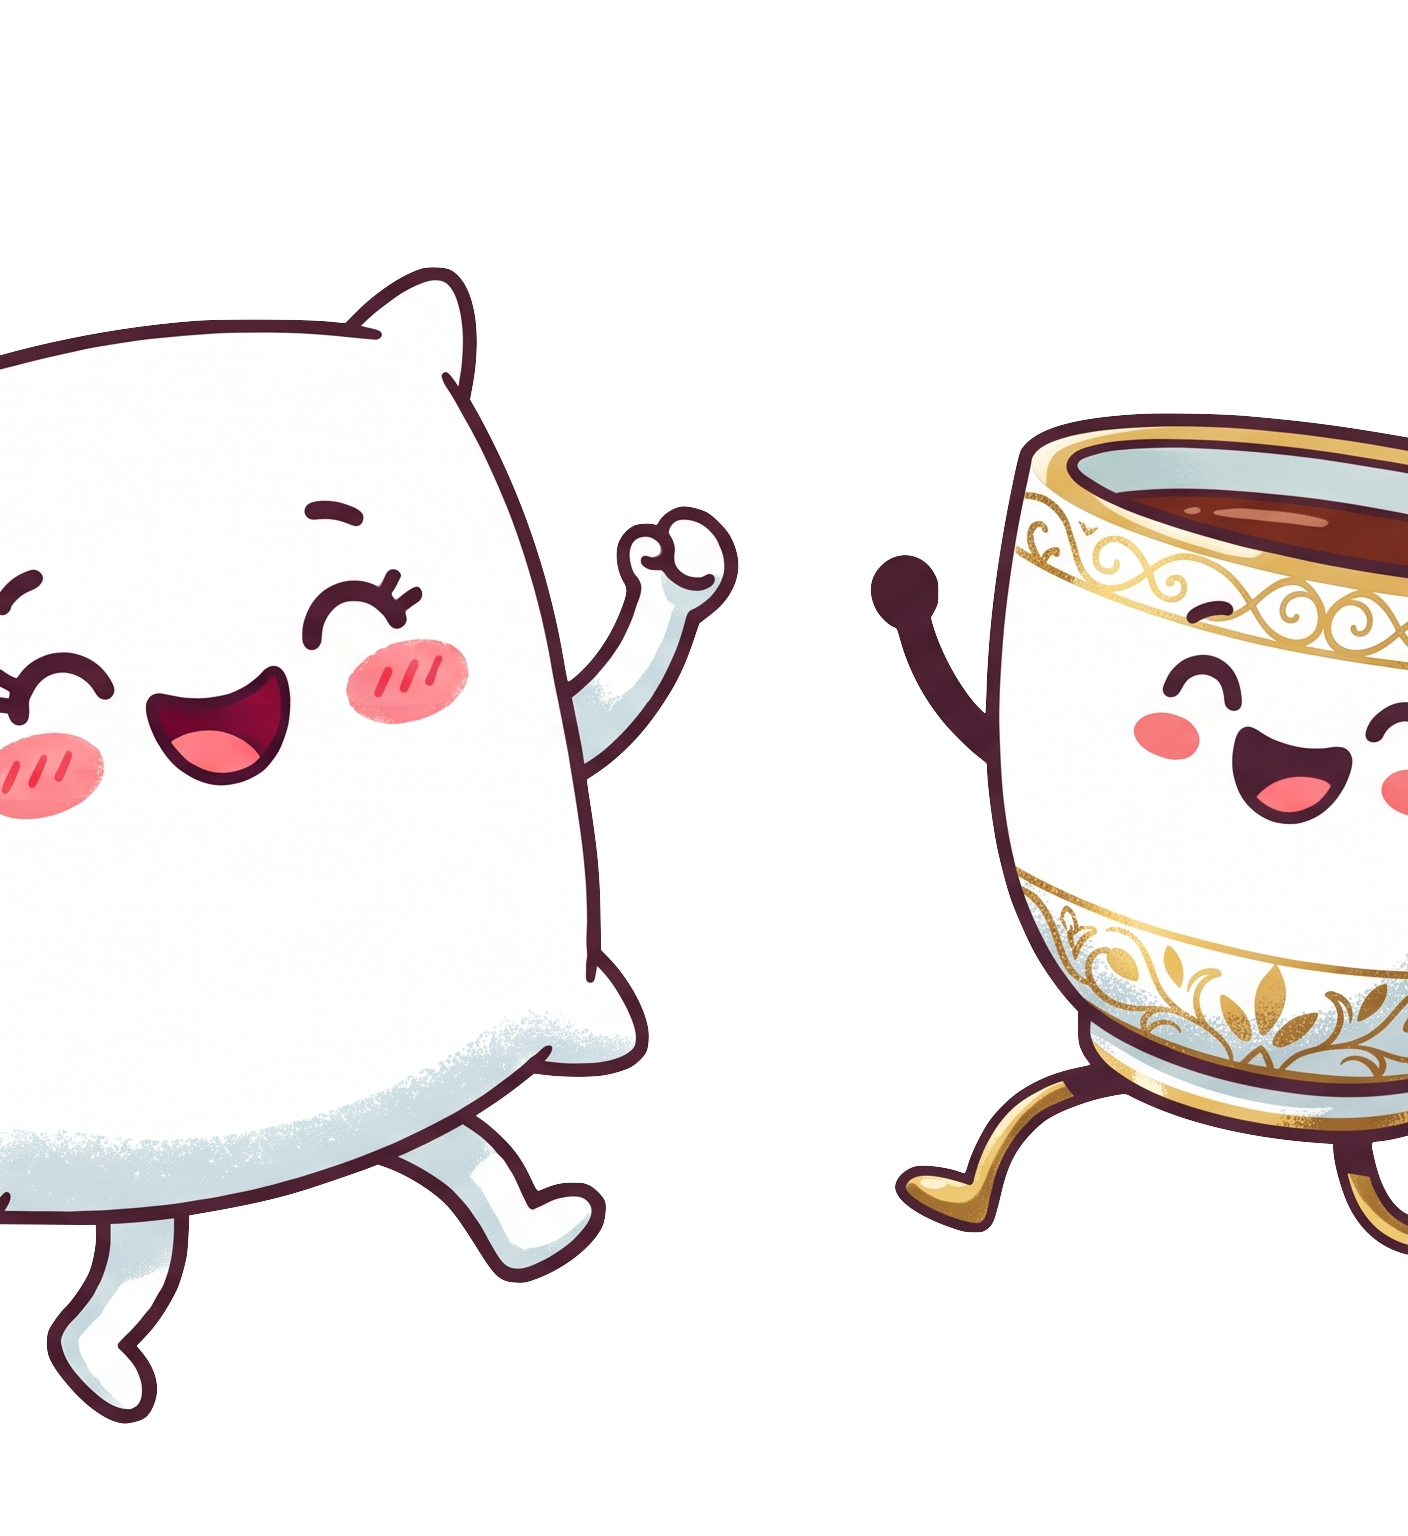
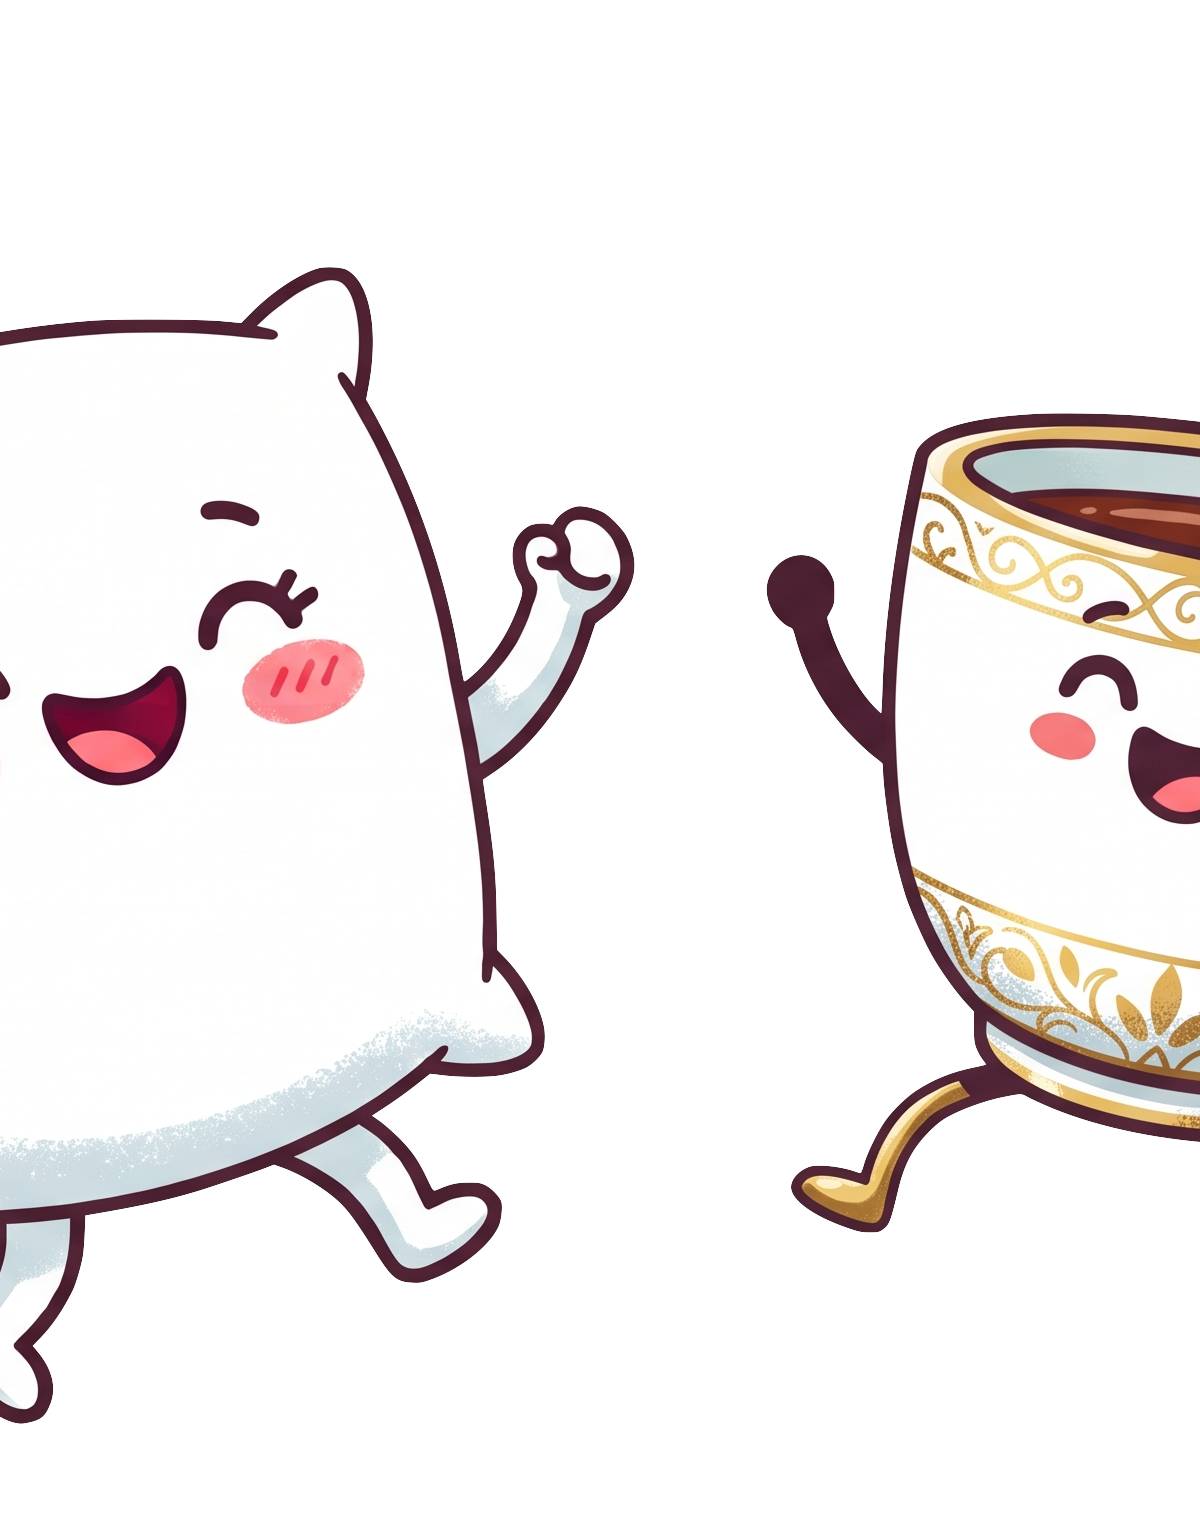
add mychar download, prompt dropdown, chat copy; fix overlay crop and size
- Settings/Onboarding: show mychar download button when custom character exists
- CharacterCreator: prompt pulldown with copy button after image generation; increase composite overlay height to 65%
- ChatOverlay: add copy-all button in header when messages exist
- Overlay images: re-crop to 1200px width to prevent character cutoff

diff --git a/src/components/ChatOverlay.tsx b/src/components/ChatOverlay.tsx
@@ -185,6 +185,22 @@ export function ChatOverlay({ userName, onClose }: Props) {
           <div className="chat-header-row">
             <span className="chat-title">AIに相談する</span>
             <div className="chat-header-actions">
+              {messages.length > 0 && (
+                <button
+                  className="icon-btn"
+                  onClick={e => {
+                    e.stopPropagation()
+                    const text = messages.map(m => `${m.role === 'user' ? 'あなた' : 'AI'}: ${m.text}`).join('\n\n')
+                    navigator.clipboard.writeText(text)
+                  }}
+                  aria-label="全文コピー"
+                >
+                  <svg width="16" height="16" viewBox="0 0 24 24" fill="none" stroke="currentColor" strokeWidth="2" strokeLinecap="round" strokeLinejoin="round">
+                    <rect x="9" y="9" width="13" height="13" rx="2" ry="2"/>
+                    <path d="M5 15H4a2 2 0 0 1-2-2V4a2 2 0 0 1 2-2h9a2 2 0 0 1 2 2v1"/>
+                  </svg>
+                </button>
+              )}
               <button className="icon-btn" onClick={e => { e.stopPropagation(); setShowPersonality(v => !v) }} aria-label="性格・口調設定">
                 <svg width="18" height="18" viewBox="0 0 24 24" fill="none" stroke="currentColor" strokeWidth="2" strokeLinecap="round" strokeLinejoin="round">
                   <circle cx="12" cy="12" r="3"/><path d="M19.4 15a1.65 1.65 0 0 0 .33 1.82l.06.06a2 2 0 0 1-2.83 2.83l-.06-.06a1.65 1.65 0 0 0-1.82-.33 1.65 1.65 0 0 0-1 1.51V21a2 2 0 0 1-4 0v-.09A1.65 1.65 0 0 0 9 19.4a1.65 1.65 0 0 0-1.82.33l-.06.06a2 2 0 0 1-2.83-2.83l.06-.06A1.65 1.65 0 0 0 4.68 15a1.65 1.65 0 0 0-1.51-1H3a2 2 0 0 1 0-4h.09A1.65 1.65 0 0 0 4.6 9a1.65 1.65 0 0 0-.33-1.82l-.06-.06a2 2 0 0 1 2.83-2.83l.06.06A1.65 1.65 0 0 0 9 4.68a1.65 1.65 0 0 0 1-1.51V3a2 2 0 0 1 4 0v.09a1.65 1.65 0 0 0 1 1.51 1.65 1.65 0 0 0 1.82-.33l.06-.06a2 2 0 0 1 2.83 2.83l-.06.06A1.65 1.65 0 0 0 19.4 9a1.65 1.65 0 0 0 1.51 1H21a2 2 0 0 1 0 4h-.09a1.65 1.65 0 0 0-1.51 1z"/>

diff --git a/src/screens/CharacterCreator.tsx b/src/screens/CharacterCreator.tsx
@@ -515,6 +515,20 @@ function AIGenPanel({ onLoadToNormal }: { onLoadToNormal: (url: string) => void 
           </div>
         </>
       )}
+      {prompt && (
+        <details className="ai-prompt-details">
+          <summary className="ai-prompt-summary">生成プロンプトを見る</summary>
+          <div className="ai-prompt-body">
+            <p className="ai-prompt-text">{prompt}</p>
+            <button
+              className="btn-secondary"
+              onClick={() => navigator.clipboard.writeText(prompt)}
+            >
+              コピー
+            </button>
+          </div>
+        </details>
+      )}
     </div>
   )
 }
@@ -545,7 +559,7 @@ export function CharacterCreator() {
         ctx.drawImage(charImg, 0, 0, CROP_SIZE, CROP_SIZE)
         const overlayImg = new Image()
         overlayImg.onload = () => {
-          const maxH = CROP_SIZE * 0.5
+          const maxH = CROP_SIZE * 0.65
           const scale = Math.min(CROP_SIZE / overlayImg.width, maxH / overlayImg.height)
           const w = overlayImg.width * scale
           const h = overlayImg.height * scale

diff --git a/src/index.css b/src/index.css
@@ -499,6 +499,11 @@ html, body, #root {
 .ai-gen-actions .btn-primary { flex: 1; }
 .ai-gen-divider { display: flex; align-items: center; gap: 10px; margin: 16px 0 4px; color: var(--text-light); font-size: 13px; }
 .ai-gen-divider::before, .ai-gen-divider::after { content: ''; flex: 1; height: 1px; background: var(--border); }
+.ai-prompt-details { margin-top: 8px; }
+.ai-prompt-summary { font-size: 12px; color: var(--text-light); cursor: pointer; user-select: none; padding: 4px 0; }
+.ai-prompt-body { margin-top: 6px; display: flex; flex-direction: column; gap: 6px; }
+.ai-prompt-text { font-size: 11px; color: var(--text-light); background: var(--bg-sub, #f5f5f5); border-radius: 6px; padding: 8px; word-break: break-all; line-height: 1.5; margin: 0; }
+.ai-prompt-body .btn-secondary { align-self: flex-end; font-size: 12px; padding: 4px 12px; }
 
 /* ===== HELP ===== */
 .top-bar-right { display: flex; align-items: center; gap: 4px; }

diff --git a/src/screens/Onboarding.tsx b/src/screens/Onboarding.tsx
@@ -70,6 +70,22 @@ export function Onboarding() {
         <button className="btn-secondary wide" style={{ marginTop: '8px' }} onClick={handleGoCreator}>
           相棒クリエイト
         </button>
+        {localStorage.getItem('nob_custom_img_normal') && (
+          <button
+            className="btn-secondary wide"
+            style={{ marginTop: '8px' }}
+            onClick={() => {
+              const url = localStorage.getItem('nob_custom_img_normal')
+              if (!url) return
+              const a = document.createElement('a')
+              a.href = url
+              a.download = 'mychar.png'
+              a.click()
+            }}
+          >
+            マイキャラをダウンロード
+          </button>
+        )}
       </div>
 
       <button className="btn-primary wide" onClick={handleStart}>

diff --git a/src/screens/Settings.tsx b/src/screens/Settings.tsx
@@ -83,6 +83,21 @@ export function Settings() {
         <button className="btn-secondary wide" onClick={() => goTo('character-creator')}>
           相棒クリエイト
         </button>
+        {localStorage.getItem('nob_custom_img_normal') && (
+          <button
+            className="btn-secondary wide"
+            onClick={() => {
+              const url = localStorage.getItem('nob_custom_img_normal')
+              if (!url) return
+              const a = document.createElement('a')
+              a.href = url
+              a.download = 'mychar.png'
+              a.click()
+            }}
+          >
+            マイキャラをダウンロード
+          </button>
+        )}
       </div>
 
       <div className="settings-row">
